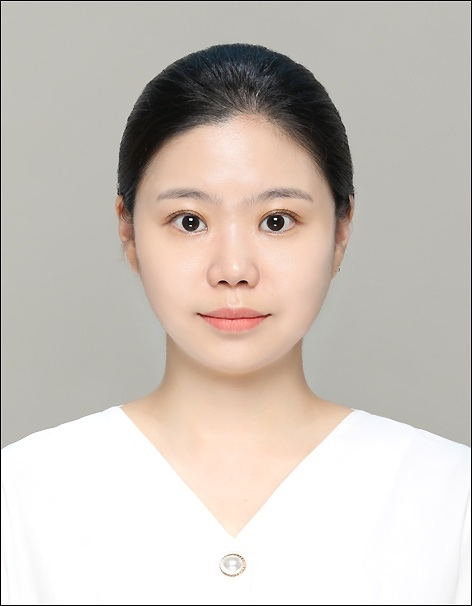
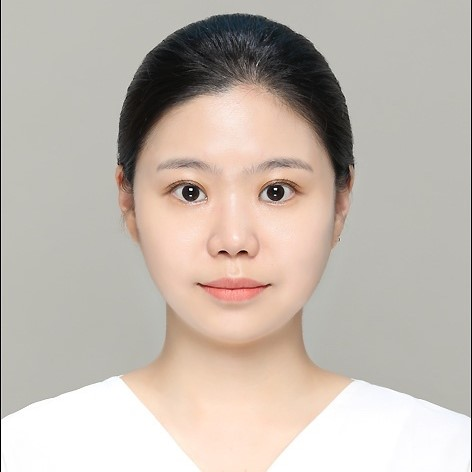
fix: member 이미지 변경
김현경 선생님 이미지 수정

diff --git a/htmls/members/Hyun Kyung Kim.html b/htmls/members/Hyun Kyung Kim.html
@@ -31,26 +31,16 @@ layout: default
 						</header>
 
 						<p>Research Project Mangement and Support
-
 							<br>
-							<a href="dlab.amc@gmail.com
-
-
-							">dlab.amc@gmail.com
-
-
+							<a href="dlab.amc@gmail.com">dlab.amc@gmail.com
 							</a>
 							<br>
-
-
 						</p>
 
 					</section>
-
-
 				</div>
-
 			</div>
+			
 			<div class="8u skel-cell-important">
 
 			</div>

diff --git a/htmls/inside_the_lab/DHLAB@AMC.html b/htmls/inside_the_lab/DHLAB@AMC.html
@@ -369,7 +369,7 @@ layout: default
 				<div class="3u">
 					<div class="profil-image-container">
 						<a href="/htmls/members/Hyun Kyung Kim.html">
-							<img src="/images/members/김현경1.JPG" alt
+							<img src="/images/members/김현경.JPG" alt
 								style="width: 100%; height: 100%; border-radius: 50%;">
 						</a>
 					</div>
